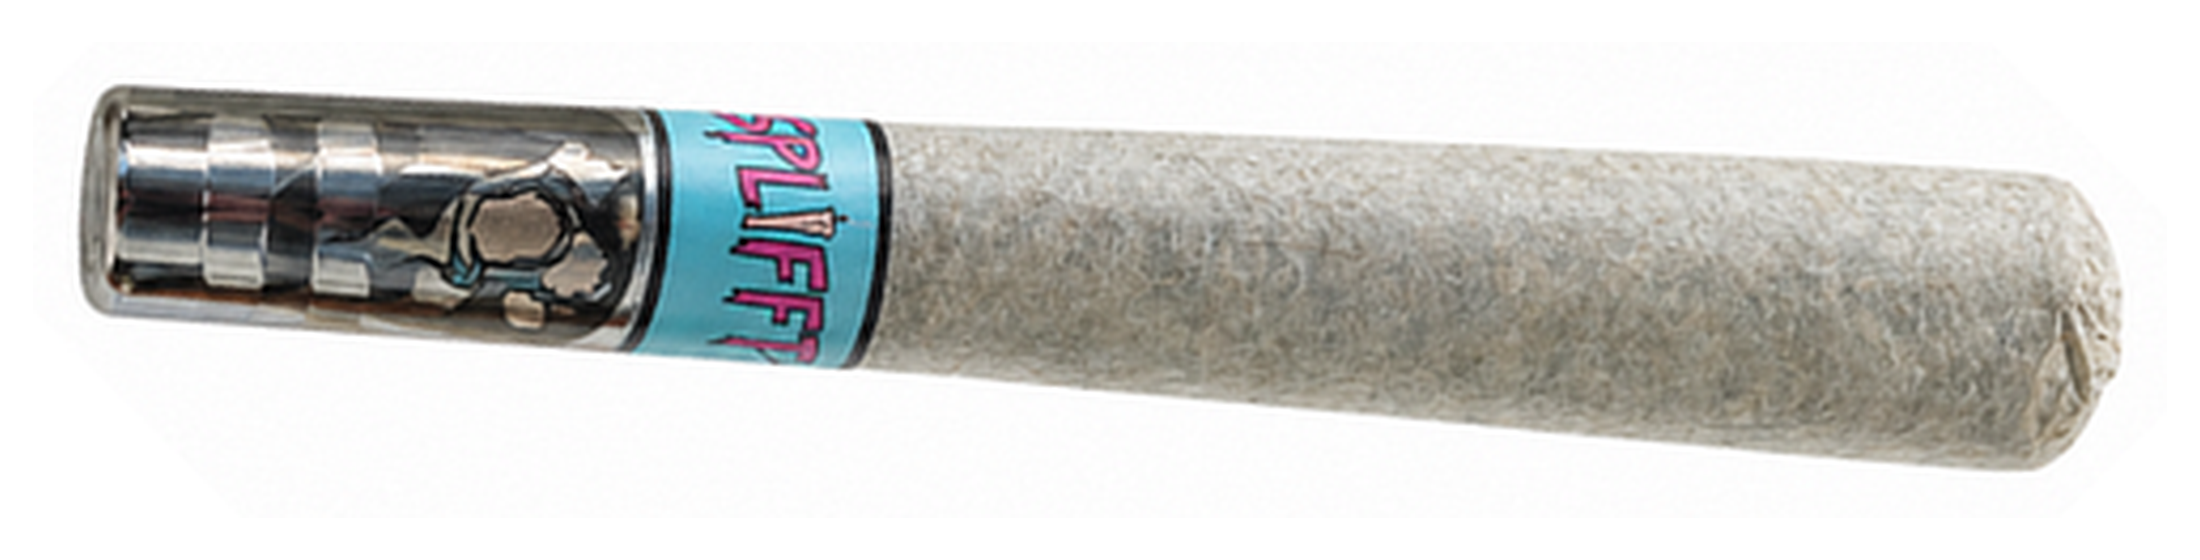
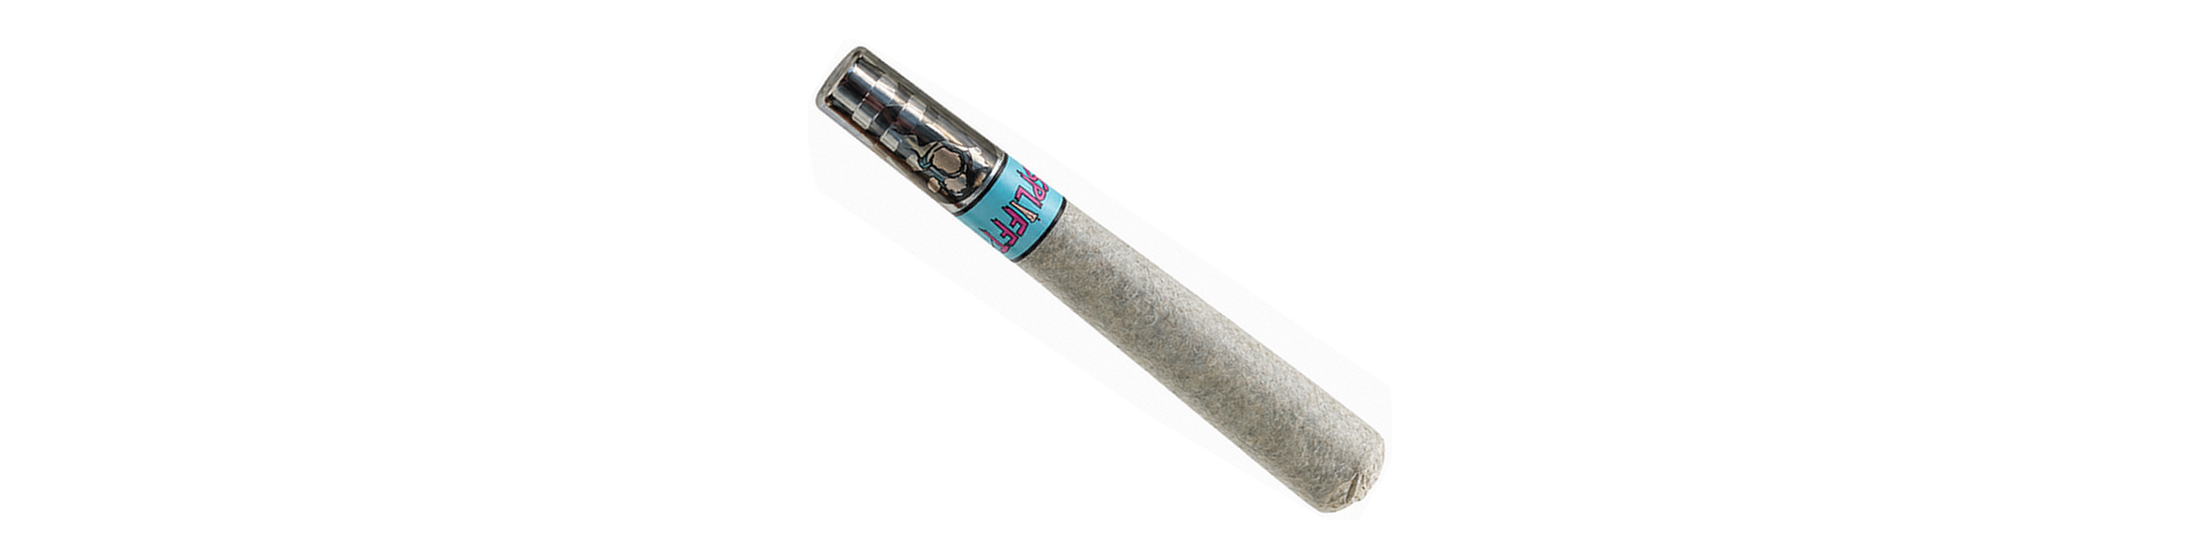
What you get

diff --git a/src/components/premium-home/PremiumHomePage.tsx b/src/components/premium-home/PremiumHomePage.tsx
@@ -147,94 +147,16 @@ export function PremiumHomePage() {
 
       <section
         id="what-you-get"
-        className="flex min-h-[86svh] snap-start items-start bg-[linear-gradient(180deg,#f3eee5,#ebe4d8)] px-4 py-8 md:min-h-[82svh] md:py-10 lg:min-h-[80svh]"
+        className="flex min-h-[86svh] snap-start items-start bg-[linear-gradient(180deg,#f3eee5,#ebe4d8)] px-3 py-6 md:min-h-[82svh] md:py-8 lg:min-h-[80svh]"
       >
-        <div className="mx-auto w-full max-w-md rounded-[34px] bg-[#f6f1e8] px-4 py-8 shadow-[0_18px_35px_rgba(49,39,33,0.09)] md:max-w-7xl md:px-10 md:py-10 lg:px-14">
-          <div className="text-center">
-            <p className="text-[1.85rem] italic leading-none text-[#d2679e] md:text-[2.15rem]">
-              ~ Handcrafted ~
-            </p>
-            <h2 className="mt-2 font-[family-name:var(--font-display)] text-5xl uppercase leading-[0.9] tracking-tight text-[#0d1020] md:text-7xl">
-              What You Get
-            </h2>
-            <p className="mx-auto mt-4 max-w-[36rem] text-base text-[#2e2b36] md:text-[1.35rem]">
-              Clean premium details in every pack,
-              <br className="hidden md:block" />
-              made to feel consistent from first open to final session.
-            </p>
-          </div>
-
-          <div className="mt-10 grid gap-4 text-center md:grid-cols-3 md:gap-8">
-            {[
-              {
-                title: "GLASS FILTER TIP",
-                body: "Premium glass tip for a smoother, cooler draw.",
-              },
-              {
-                title: "BRANDED SPLIFFT BAND",
-                body: "Signature Splifft band seals quality in every pack.",
-              },
-              {
-                title: "PREMIUM MIDNIGHT SMOKING PAPER",
-                body: "Ultra-thin, slow-burning paper for a smooth even burn.",
-              },
-            ].map((item) => (
-              <div key={item.title}>
-                <p className="text-[13px] font-extrabold uppercase tracking-[0.08em] text-[#151622]">
-                  {item.title}
-                </p>
-                <p className="mx-auto mt-2 max-w-[16rem] text-sm leading-relaxed text-[#2f2d35]">
-                  {item.body}
-                </p>
-              </div>
-            ))}
-          </div>
-
-          <div className="mt-5 rounded-[22px] bg-white/70 px-2 py-2 shadow-[0_8px_22px_rgba(22,18,24,0.08)] md:px-8 md:py-4">
-            <div className="relative mx-auto h-24 w-full max-w-5xl md:h-40">
-              <ProductImage
-                src="/joint.png"
-                alt="Splifft joint with glass filter on the left and premium smoking paper body on the right"
-                fallbackLabel="splifft-single.png"
-                className="object-contain"
-              />
-            </div>
-          </div>
-
-          <div className="mt-7 grid gap-3 sm:grid-cols-2 lg:grid-cols-4 lg:gap-4">
-            {[
-              {
-                title: "PREMIUM MATERIALS",
-                body: "Top-shelf components chosen for quality, consistency, and taste.",
-                icon: "◇",
-              },
-              {
-                title: "HANDCRAFTED",
-                body: "Carefully packed by hand to ensure the perfect experience every time.",
-                icon: "♡",
-              },
-              {
-                title: "CONSISTENT QUALITY",
-                body: "From first open to final session. Always reliable.",
-                icon: "⌂",
-              },
-              {
-                title: "SMOOTH EXPERIENCE",
-                body: "Designed for a clean, even burn and a satisfying session.",
-                icon: "◌",
-              },
-            ].map((item) => (
-              <article
-                key={item.title}
-                className="rounded-2xl border border-black/10 bg-white/90 px-5 py-4 text-center shadow-[0_8px_18px_rgba(0,0,0,0.07)]"
-              >
-                <p className="text-lg font-semibold text-[#d2679e]">{item.icon}</p>
-                <h3 className="mt-1 text-[15px] font-extrabold uppercase tracking-[0.04em] text-[#171923]">
-                  {item.title}
-                </h3>
-                <p className="mt-2 text-sm leading-relaxed text-[#2f2d35]">{item.body}</p>
-              </article>
-            ))}
+        <div className="mx-auto w-full max-w-6xl">
+          <div className="relative mx-auto aspect-[16/11] w-full max-w-[1100px]">
+            <ProductImage
+              src="/What_you_get.png"
+              alt="What you get section showing handcrafted premium joint details"
+              fallbackLabel="what-you-get.png"
+              className="object-contain"
+            />
           </div>
         </div>
       </section>
